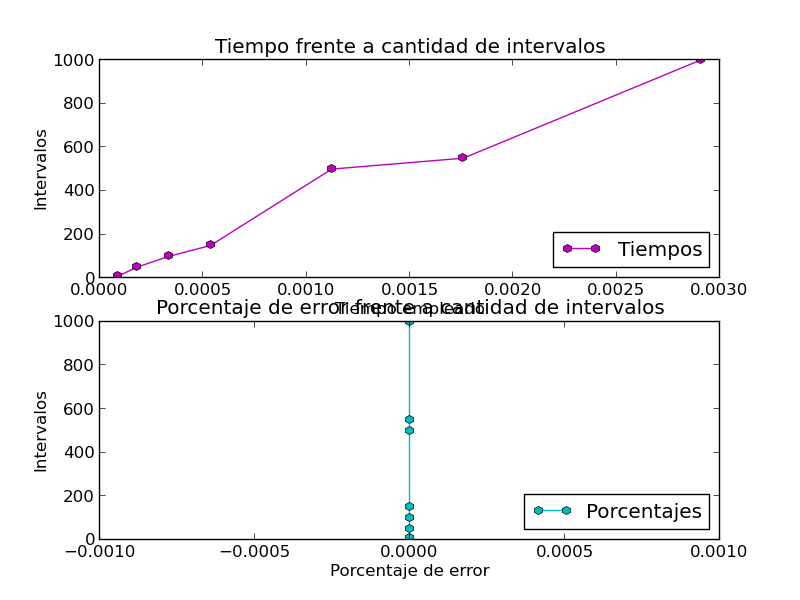
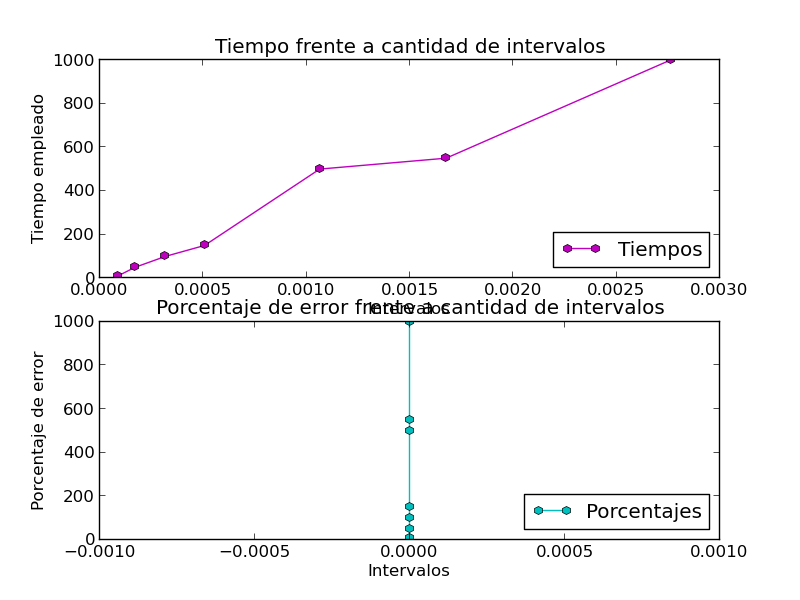
hecho

diff --git a/src/tiempos.py b/src/tiempos.py
@@ -29,16 +29,16 @@ for i in range(len(t_upla)):
   y=y+[t_upla[i]]
 grafica1=pl.subplot(211)
 pl.plot(l,y,'m',marker='h')
-pl.xlabel('Tiempo empleado')
-pl.ylabel('Intervalos')
+pl.ylabel('Tiempo empleado')
+pl.xlabel('Intervalos')
 pl.title('Tiempo frente a cantidad de intervalos')
 pl.xlim(0.0, 0.003)
 pl.ylim(0.0, 1000.0)
 pl.legend(['Tiempos'], loc=4, numpoints=2)
 grafica2=pl.subplot(212)
 pl.plot(e,y,'c',marker='h')
-pl.xlabel('Porcentaje de error')
-pl.ylabel('Intervalos')
+pl.ylabel('Porcentaje de error')
+pl.xlabel('Intervalos')
 pl.title('Porcentaje de error frente a cantidad de intervalos')
 pl.xlim(0,0,1.0)
 pl.ylim(-0.5,1000.0)
